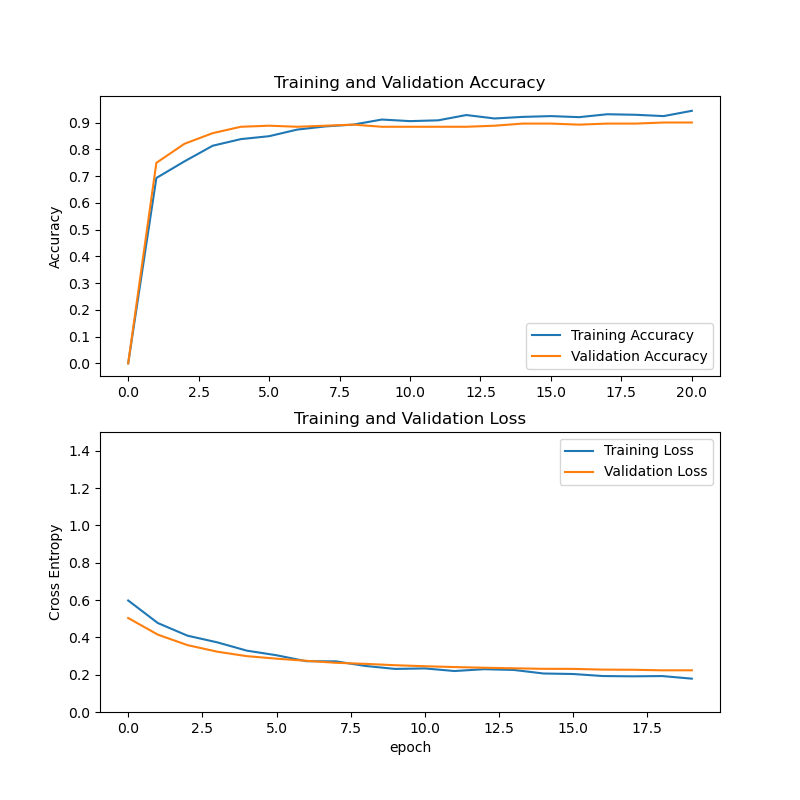
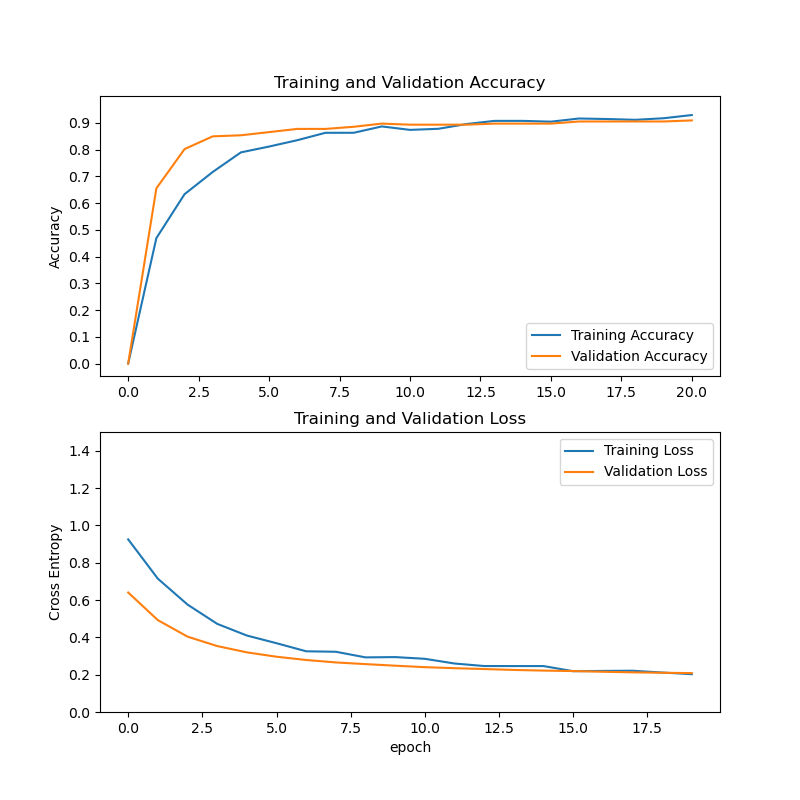
u

diff --git a/ptc/src/ptc.py b/ptc/src/ptc.py
@@ -31,7 +31,7 @@ base_model.summary()
 
 # 3. Create a model from a base model in which all layers are freezed
 
-def thyroid_model(base_model=base_model, num_classes=2):
+def thyroid_model(num_classes=2):
     ''' Define a tf.keras model for binary classification out of a base model
     Arguments:
         image_shape -- image width and height
@@ -65,17 +65,15 @@ def thyroid_model(base_model=base_model, num_classes=2):
     
     return model
 
-ptc = thyroid_model(base_model, 2)
+ptc = thyroid_model(2)
+ptc.summary()
 
 # 4. Compile and train the freeezed model for 20 epochs:
 
 base_learning_rate = 0.0001
 loss_function=tf.keras.losses.SparseCategoricalCrossentropy(from_logits=True)
-ptc.compile(
-    optimizer=tf.keras.optimizers.Adam(learning_rate=base_learning_rate), 
-    loss=loss_function, 
-    metrics=['accuracy']
-)
+optimizer = tf.keras.optimizers.Adam(learning_rate=base_learning_rate)
+ptc.compile(optimizer=optimizer, loss=loss_function,  metrics=['accuracy'])
 
 initial_epochs = 20
 history = ptc.fit(train_dataset, validation_data=validation_dataset, epochs=initial_epochs)
@@ -115,16 +113,15 @@ base_model.trainable = True
 print("Number of layers in the base model: ", len(base_model.layers))
 
 # Fine-tune from this layer onwards
-fine_tune_at = 120
+fine_tune_at = 134
 
 # Freeze all the layers before the `fine_tune_at` layer
 for layer in base_model.layers[:fine_tune_at]:
     layer.trainable = False
     
 # Define an Adam optimizer with a learning rate of 0.1 * base_learning_rate
-optimizer = tf.keras.optimizers.Adam(lr=0.1*base_learning_rate)
-
-ptc.compile(optimizer = optimizer, loss=loss_function, metrics=['accuracy'])
+optimizer = tf.keras.optimizers.Adam(learning_rate=0.1*base_learning_rate)
+ptc.compile(optimizer=optimizer, loss=loss_function, metrics=['accuracy'])
 
 fine_tune_epochs = 15
 total_epochs =  initial_epochs + fine_tune_epochs
@@ -145,7 +142,7 @@ plt.plot(acc, label='Training Accuracy')
 plt.plot(val_acc, label='Validation Accuracy')
 plt.ylim([0, 1])
 plt.yticks(np.arange(0, 1, step=0.1))
-plt.plot([initial_epochs-1,initial_epochs-1], plt.ylim(), label='Start Fine Tuning')
+plt.plot([initial_epochs-1, initial_epochs-1], plt.ylim(), label='Start Fine-Tuning')
 plt.legend(loc='lower right')
 plt.title('Training and Validation Accuracy')
 
@@ -153,7 +150,7 @@ plt.subplot(2, 1, 2)
 plt.plot(loss, label='Training Loss')
 plt.plot(val_loss, label='Validation Loss')
 plt.ylim([0, 2.0])
-plt.plot([initial_epochs-1,initial_epochs-1], plt.ylim(), label='Start Fine Tuning')
+plt.plot([initial_epochs-1, initial_epochs-1], plt.ylim(), label='Start Fine-Tuning')
 plt.legend(loc='upper right')
 plt.title('Training and Validation Loss')
 plt.xlabel('epoch')
